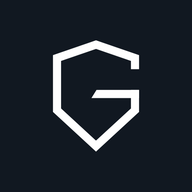
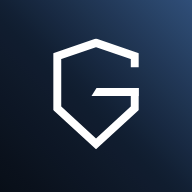
ENT-658: App-Symbol aus dem Vektor, und derselbe Verlauf auf der Anmeldemaske
Das iOS-App-Symbol war das Standardzeichen von Capacitor -- ein blaues
Kreuz auf weissem Grund, unveraendert seit dem Aufsetzen des Geruests.
Gesehen hat es der Projektinhaber auf seinem Startbildschirm, nicht eine
Pruefung.

Der Grund ist so einfach wie aergerlich: Niemand hat je in die Datei
hineingesehen. Es gab Pruefungen auf Dateinamen, auf die Verweise in den
Seiten und auf die Buendel -- 193 allein in test_marke_favicon.mjs, alle
gruen, waehrend die Datei ein fremdes Zeichen enthielt. Ein Dateiname
sagt nichts darueber, was im Bild steht.

Das Symbol wird jetzt in jeder Groesse frisch aus dem Vektor erzeugt
(iOS 1024 und der Web-Satz 16/32/180/192/512), nicht aus der Vorlage
heruntergerechnet -- bei 16 und 32 px ist das der Unterschied zwischen
lesbar und Matsch.

Der Verlauf ist an der Vorlage ABGETASTET, nicht geschaetzt, und zwar an
den Raendern, wo keine Marke liegt. Zwei Befunde, die sonst falsch
gebaut worden waeren: Quer zur Diagonale ist die Farbe an jeder
Messstelle gleich (#122034), der Verlauf haengt also allein von einer
Achse ab. Und er ist gedaempft -- seine Mitte liegt bei 27 Prozent der
Helligkeitsstrecke, nicht bei 50. Uebernommen sind neun Stufen, nicht
zwei Endpunkte. Abweichung des erzeugten Symbols zur Vorlage: 0,61 von
255 im Mittel.

Dieselben Stufen liegen jetzt auf der Anmeldemaske der App. Die
Desktop-Fassung ab 900 px bleibt unangetastet: Dort liegen das Foto aus
ENT-392 und das Video aus ENT-394, beide eigens auf Kontrast gemessen.
[…]

diff --git a/app.html b/app.html
@@ -335,10 +335,33 @@ svg.i-sm { width: 17px; height: 17px; }
   display: flex; flex-direction: column; overflow-y: auto;
   padding: 32px 22px calc(32px + env(safe-area-inset-bottom) + var(--sockel));
   color: var(--ink);
-  /* Ein sehr flacher Schein hinter dem Logo. Seit die Karte als
-     Begrenzung fehlt, ist er das Einzige, was der Flaeche Tiefe gibt --
-     bewusst so schwach, dass er als Licht und nicht als Farbfeld liest. */
-  background: radial-gradient(112% 62% at 50% 12%, #1A2334 0%, rgba(26,35,52,0) 60%), #0F1117;
+  /* Derselbe Verlauf wie das App-Symbol (ENT-658), auf Wunsch des
+     Projektinhabers: "Ich favorisiere fuer das App-Icon das Bild mit dem
+     Schwarz/Blau-Verlauf. Ebenso dann auch die Anmeldemaske der App."
+
+     Die Stufen sind an seiner Vorlage ABGETASTET, nicht geschaetzt: An
+     den Raendern des Bildes (dort liegt keine Marke) alle 12,5 % entlang
+     der Diagonale. Ein glatter Verlauf von #080E17 nach #304F79 waere
+     etwas anderes -- die Vorlage ist gedaempft, ihre Mitte liegt bei
+     27 % der Helligkeitsstrecke und nicht bei 50 %. Gemessen: quer zur
+     Diagonale ist die Farbe an jeder Stelle gleich (#122034), der
+     Verlauf haengt also allein von dieser einen Achse ab.
+
+     "to top right" statt eines festen Winkels: Die Eckpunkte wandern mit
+     dem Seitenverhaeltnis, dunkel bleibt unten links und hell oben
+     rechts -- auf jedem Geraet und im Querformat.
+
+     Der frueher hier stehende radiale Schein hinter dem Logo ist damit
+     ueberfluessig: Der Verlauf selbst gibt der Flaeche Tiefe, und zwei
+     Lichtquellen uebereinander heben sich gegenseitig auf.
+
+     Die Desktop-Fassung ab 900 px bleibt UNANGETASTET -- dort liegt das
+     Foto aus ENT-392 und darueber das Video aus ENT-394, beide eigens
+     entschieden und auf Kontrast gemessen. Der Auftrag lautete auf die
+     Anmeldemaske der APP. */
+  background: linear-gradient(to top right,
+    #080E17 0%, #0A121E 13%, #0D1625 25%, #0F1B2B 38%, #122034 50%,
+    #1A2C45 63%, #213756 75%, #294368 88%, #304F79 100%);
 
   /* Die dunklen Werte stehen seit ENT-398 einmal weiter oben, fuer
      html[data-thema="dunkel"], #gate und .rgs gemeinsam -- #gate bleibt

diff --git a/mobile/www/index.html b/mobile/www/index.html
@@ -335,10 +335,33 @@ svg.i-sm { width: 17px; height: 17px; }
   display: flex; flex-direction: column; overflow-y: auto;
   padding: 32px 22px calc(32px + env(safe-area-inset-bottom) + var(--sockel));
   color: var(--ink);
-  /* Ein sehr flacher Schein hinter dem Logo. Seit die Karte als
-     Begrenzung fehlt, ist er das Einzige, was der Flaeche Tiefe gibt --
-     bewusst so schwach, dass er als Licht und nicht als Farbfeld liest. */
-  background: radial-gradient(112% 62% at 50% 12%, #1A2334 0%, rgba(26,35,52,0) 60%), #0F1117;
+  /* Derselbe Verlauf wie das App-Symbol (ENT-658), auf Wunsch des
+     Projektinhabers: "Ich favorisiere fuer das App-Icon das Bild mit dem
+     Schwarz/Blau-Verlauf. Ebenso dann auch die Anmeldemaske der App."
+
+     Die Stufen sind an seiner Vorlage ABGETASTET, nicht geschaetzt: An
+     den Raendern des Bildes (dort liegt keine Marke) alle 12,5 % entlang
+     der Diagonale. Ein glatter Verlauf von #080E17 nach #304F79 waere
+     etwas anderes -- die Vorlage ist gedaempft, ihre Mitte liegt bei
+     27 % der Helligkeitsstrecke und nicht bei 50 %. Gemessen: quer zur
+     Diagonale ist die Farbe an jeder Stelle gleich (#122034), der
+     Verlauf haengt also allein von dieser einen Achse ab.
+
+     "to top right" statt eines festen Winkels: Die Eckpunkte wandern mit
+     dem Seitenverhaeltnis, dunkel bleibt unten links und hell oben
+     rechts -- auf jedem Geraet und im Querformat.
+
+     Der frueher hier stehende radiale Schein hinter dem Logo ist damit
+     ueberfluessig: Der Verlauf selbst gibt der Flaeche Tiefe, und zwei
+     Lichtquellen uebereinander heben sich gegenseitig auf.
+
+     Die Desktop-Fassung ab 900 px bleibt UNANGETASTET -- dort liegt das
+     Foto aus ENT-392 und darueber das Video aus ENT-394, beide eigens
+     entschieden und auf Kontrast gemessen. Der Auftrag lautete auf die
+     Anmeldemaske der APP. */
+  background: linear-gradient(to top right,
+    #080E17 0%, #0A121E 13%, #0D1625 25%, #0F1B2B 38%, #122034 50%,
+    #1A2C45 63%, #213756 75%, #294368 88%, #304F79 100%);
 
   /* Die dunklen Werte stehen seit ENT-398 einmal weiter oben, fuer
      html[data-thema="dunkel"], #gate und .rgs gemeinsam -- #gate bleibt
